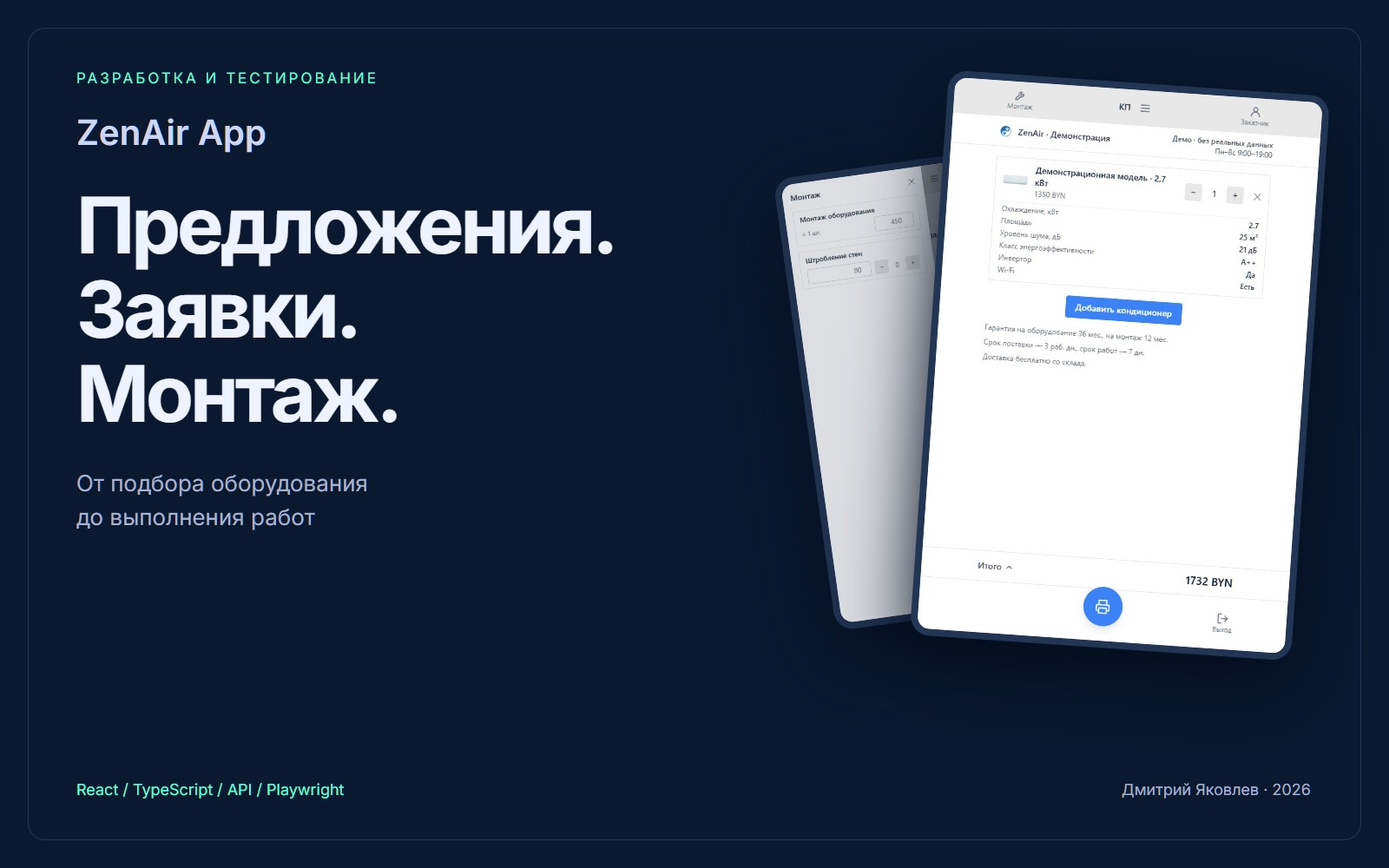
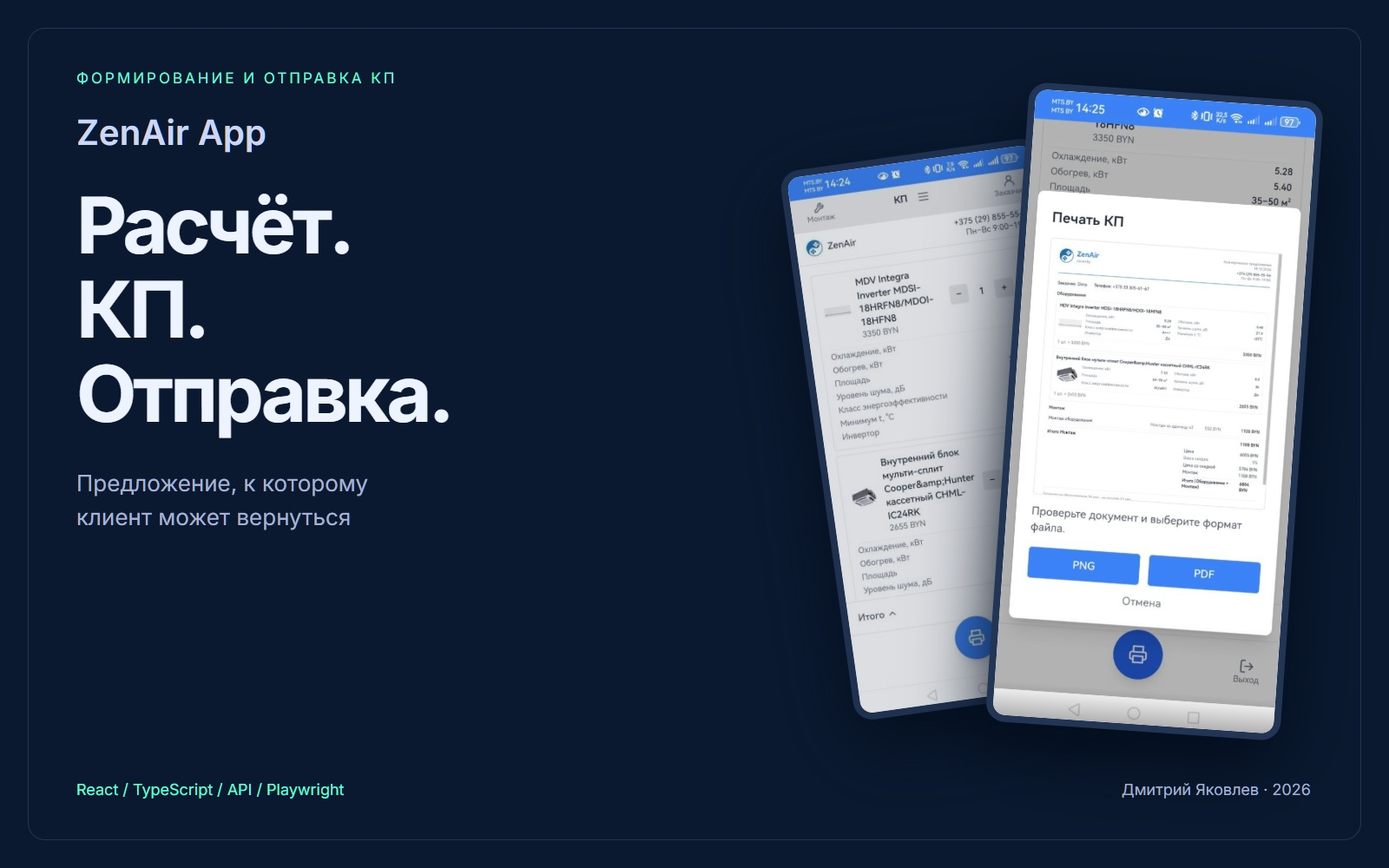
Focus ZenAir App case on quote calculation and sharing

diff --git a/projects/zenair-app.html b/projects/zenair-app.html
@@ -3,23 +3,23 @@
 <head>
 <meta charset="UTF-8">
 <meta name="viewport" content="width=device-width, initial-scale=1.0">
-<title>ZenAir App — разработка и тестирование приложения — Дмитрий Яковлев</title>
-<meta name="description" content="React и TypeScript: коммерческие предложения, монтажные заявки, ролевой доступ, API и автоматизированные проверки на Playwright.">
+<title>ZenAir App — расчёт и отправка коммерческого предложения — Дмитрий Яковлев</title>
+<meta name="description" content="Разработка приложения для расчёта оборудования и работ, формирования КП в PDF/PNG и отправки клиенту. React, TypeScript, API и Playwright.">
 <link rel="icon" href="/img/icons/favicon.ico">
 <link rel="canonical" href="https://dmitryyakovlev.by/projects/zenair-app.html">
 <meta property="og:type" content="article">
 <meta property="og:site_name" content="Дмитрий Яковлев">
 <meta property="og:locale" content="ru_RU">
-<meta property="og:title" content="ZenAir App — разработка и тестирование приложения — Дмитрий Яковлев">
-<meta property="og:description" content="React и TypeScript: коммерческие предложения, монтажные заявки, ролевой доступ, API и автоматизированные проверки на Playwright.">
+<meta property="og:title" content="ZenAir App — расчёт и отправка коммерческого предложения — Дмитрий Яковлев">
+<meta property="og:description" content="Разработка приложения для расчёта оборудования и работ, формирования КП в PDF/PNG и отправки клиенту. React, TypeScript, API и Playwright.">
 <meta property="og:url" content="https://dmitryyakovlev.by/projects/zenair-app.html">
 <meta property="og:image" content="https://dmitryyakovlev.by/img/projects/zenair-app-cover.jpg">
 <meta property="og:image:width" content="1600">
 <meta property="og:image:height" content="1000">
-<meta property="og:image:alt" content="ZenAir App — разработка и тестирование приложения">
+<meta property="og:image:alt" content="ZenAir App — расчёт и отправка коммерческого предложения">
 <meta name="twitter:card" content="summary_large_image">
-<meta name="twitter:title" content="ZenAir App — разработка и тестирование приложения — Дмитрий Яковлев">
-<meta name="twitter:description" content="React и TypeScript: коммерческие предложения, монтажные заявки, ролевой доступ, API и автоматизированные проверки на Playwright.">
+<meta name="twitter:title" content="ZenAir App — расчёт и отправка коммерческого предложения — Дмитрий Яковлев">
+<meta name="twitter:description" content="Разработка приложения для расчёта оборудования и работ, формирования КП в PDF/PNG и отправки клиенту. React, TypeScript, API и Playwright.">
 <meta name="twitter:image" content="https://dmitryyakovlev.by/img/projects/zenair-app-cover.jpg">
 <style>
 @font-face { font-family: 'Inter'; font-style: normal; font-weight: 300 700; font-display: swap; src: url('/fonts/inter-cyrillic.woff2') format('woff2'); unicode-range: U+0301, U+0400-045F, U+0490-0491, U+04B0-04B1, U+2116; }
@@ -64,124 +64,124 @@ a { color:inherit; }
 <body>
 <div class="spotlight" id="spotlight">
 </div>
-<main class="page"><a href="/" class="back"><svg viewBox="0 0 24 24" fill="none" stroke="currentColor" stroke-width="2" aria-hidden="true"><path d="M19 12H5m7-7-7 7 7 7"/></svg>Дмитрий Яковлев</a>
+<main class="page">
+<a href="/" class="back"><svg viewBox="0 0 24 24" fill="none" stroke="currentColor" stroke-width="2" aria-hidden="true"><path d="M19 12H5m7-7-7 7 7 7"/></svg>Дмитрий Яковлев</a>
 <p class="proj-year">2026 · Собственный проект · Разработка и тестирование</p>
 <h1 class="proj-title">ZenAir App</h1>
-<p class="proj-subtitle">Коммерческие предложения и управление монтажом</p>
-<p class="case-intro">Приложение, которое связывает подбор оборудования, предложение заказчику и монтажную заявку. Отдельные интерфейсы для менеджера, монтажника, диспетчера и администратора работают через общий API.</p>
-<div class="proj-links"><a class="btn" href="#testing">Как устроены проверки ↓</a><a class="btn" href="/projects/zenair.html">Кейс магазина →</a>
+<p class="proj-subtitle">Расчёт и отправка коммерческого предложения клиенту</p>
+<p class="case-intro">Клиент сравнивает предложения нескольких компаний. ZenAir App помогает отправить ему расчёт с оборудованием, стоимостью работ, скидкой и итоговой суммой — чтобы он мог вернуться к предложению, когда будет готов принять решение.</p>
+<div class="proj-links"><a class="btn" href="#scenario">Как формируется КП ↓</a><a class="btn" href="#testing">Тестирование ↓</a><a class="btn" href="/projects/zenair.html">Кейс магазина →</a>
 </div>
 <dl class="case-facts">
 <div>
 <dt>Моя роль</dt>
-<dd>Проектирование, разработка интерфейсов и API, интеграции, автотесты</dd>
+<dd>Проектирование, разработка интерфейса и API, интеграции, автотесты</dd>
 </div>
 <div>
-<dt>Стек</dt>
-<dd>React · TypeScript · Express · Prisma · MySQL</dd>
+<dt>Основной сценарий</dt>
+<dd>Рассчитать → сформировать КП → отправить → вернуться к предложению</dd>
 </div>
 <div>
-<dt>Проверки</dt>
-<dd>Vitest · Testing Library · Supertest · Playwright</dd>
+<dt>Технологии</dt>
+<dd>React · TypeScript · Express · Prisma · MySQL · Playwright</dd>
 </div>
 </dl>
-<nav class="case-toc" aria-label="Разделы кейса"><a href="#task">Задача</a><a href="#quote">Коммерческое предложение</a><a href="#jobs">Монтаж</a><a href="#architecture">Решения</a><a href="#testing">Тестирование</a>
+<nav class="case-toc" aria-label="Разделы кейса"><a href="#task">Задача</a><a href="#scenario">Формирование КП</a><a href="#return">Возврат к расчёту</a><a href="#solutions">Решения</a><a href="#testing">Проверки</a>
 </nav>
-<div class="case-screens">
-<figure class="case-figure"><a href="/img/projects/zenair-app-quote.jpg" target="_blank" rel="noopener" aria-label="Открыть скриншот: Интерфейс подготовки коммерческого предложения ZenAir App"><img src="/img/projects/zenair-app-quote.jpg" alt="Интерфейс подготовки коммерческого предложения ZenAir App" width="600" height="900" loading="lazy"></a>
-<figcaption>Оборудование и условия предложения. Локальная сборка, демонстрационные данные.</figcaption>
-</figure>
-<figure class="case-figure"><a href="/img/projects/zenair-app-works.jpg" target="_blank" rel="noopener" aria-label="Открыть скриншот настройки монтажных работ"><img src="/img/projects/zenair-app-works.jpg" alt="Стоимость и состав монтажных работ в ZenAir App" width="600" height="900" loading="lazy"></a>
-<figcaption>Базовый монтаж и дополнительные работы. Данные для демонстрации интерфейса.</figcaption>
-</figure>
-</div>
+
 <section id="task" class="proj-section">
 <p class="proj-section-title">01 / Задача</p>
-<h2 class="case-heading">Связать продажу оборудования и выполнение работ</h2>
-<p>После подбора техники нужно рассчитать монтаж, подготовить предложение заказчику и передать данные исполнителю. Я разработал приложение для этих связанных задач: от выбора оборудования до изменения статуса монтажной заявки.</p>
-<p>Проектировал структуру данных, разрабатывал пользовательские интерфейсы и API, синхронизацию каталога и автоматизированные проверки.</p>
+<h2 class="case-heading">Оставить клиенту понятное предложение после разговора</h2>
+<p>Покупатель может позвонить в несколько компаний, уточнить модели и цены, а решение принять позже. Озвученные по телефону суммы легко перепутать: где учтены работы, какая модель предложена и сколько всё будет стоить в итоге.</p>
+<p>Я разработал приложение для подготовки и отправки коммерческого предложения. В нём менеджер собирает оборудование и работы, задаёт условия сделки и получает документ, который клиент может сохранить и открыть повторно после сравнения вариантов.</p>
 <ol class="case-flow">
-<li>Оборудование и работы</li>
-<li>Предложение заказчику</li>
-<li>Назначение монтажника</li>
-<li>Выполнение заявки</li>
+<li>Выбрать оборудование</li>
+<li>Рассчитать предложение</li>
+<li>Отправить клиенту</li>
+<li>Вернуться к расчёту</li>
 </ol>
 </section>
-<section id="quote" class="proj-section">
-<p class="proj-section-title">02 / Работа менеджера</p>
-<h2 class="case-heading">Предложение с оборудованием, работами и условиями</h2>
-<p>Менеджер выбирает оборудование по бренду, серии и модели, добавляет монтажные работы, условия и данные заказчика. Предложение сохраняется в истории, доступно для экспорта в PDF/PNG и просмотра заказчиком по ссылке без регистрации.</p>
-<p>Заказчик может принять предложение по ссылке; менеджер видит его статус. Для выданного КП сохраняются состав оборудования, цены и условия, чтобы документ можно было повторно открыть после изменения текущего каталога.</p>
+
+<section id="scenario" class="proj-section">
+<p class="proj-section-title">02 / Основной сценарий</p>
+<h2 class="case-heading">От выбора моделей до отправки готового КП</h2>
+<p>На скриншотах — последовательность формирования предложения в мобильном приложении. Состав и стоимость работ входят в расчёт; главный результат сценария — готовый документ для клиента.</p>
 <div class="case-grid">
 <article class="case-card">
-<h3>Связь с WooCommerce</h3>
-<p>Каталог приложения синхронизируется с магазином. Оборудование используется в конструкторе коммерческих предложений.</p>
+<h3>1. Оборудование и расчёт</h3>
+<p>Менеджер добавляет модели и количество. В предложении видны характеристики техники, цены и итог. Стоимость необходимых работ учитывается в общей сумме.</p>
 </article>
 <article class="case-card">
-<h3>Сохранённое предложение</h3>
-<p>История использует данные выданного документа. Обновление каталога не должно менять его состав и цены.</p>
+<h3>2. Заказчик и условия</h3>
+<p>Заполняет данные клиента, скидку, предоплату и сроки. Внутренняя заметка сотрудника отделена от информации, которая попадёт в документ.</p>
 </article>
 </div>
-</section>
-<section id="jobs" class="proj-section">
-<p class="proj-section-title">03 / Выполнение работ</p>
-<h2 class="case-heading">Каждому сотруднику — свой интерфейс</h2>
-<p>Из сохранённого КП менеджер создаёт монтажную заявку и назначает исполнителя. Монтажник видит свои заявки и данные по работам, а диспетчер — общую доску. Изменения статусов проходят проверку на сервере.</p>
-<div class="case-table-wrap">
-<table class="case-table">
-<thead>
-<tr>
-<th scope="col">Интерфейс</th>
-<th scope="col">Задачи</th>
-</tr>
-</thead>
-<tbody>
-<tr>
-<th scope="row">Менеджер</th>
-<td>Подготовка КП, история, работа с заказчиками и назначение монтажника.</td>
-</tr>
-<tr>
-<th scope="row">Монтажник</th>
-<td>Назначенные заявки, адрес и детали работ, статусы выполнения и фото.</td>
-</tr>
-<tr>
-<th scope="row">Диспетчер</th>
-<td>Общая доска заявок и наблюдение за их состоянием.</td>
-</tr>
-<tr>
-<th scope="row">Администратор</th>
-<td>Организации, сотрудники, справочники, аналитика и журнал действий.</td>
-</tr>
-</tbody>
-</table>
+<div class="case-screens">
+<figure class="case-figure"><a href="/img/projects/zenair-app-equipment.jpg" target="_blank" rel="noopener" aria-label="Открыть скриншот: Выбранное оборудование и итоговая сумма в ZenAir App"><img src="/img/projects/zenair-app-equipment.jpg" alt="Выбранное оборудование и итоговая сумма в ZenAir App" width="287" height="630" loading="lazy"></a>
+<figcaption>1. Модели, характеристики, количество и текущий итог расчёта.</figcaption>
+</figure>
+<figure class="case-figure"><a href="/img/projects/zenair-app-customer.jpg" target="_blank" rel="noopener" aria-label="Открыть скриншот: Данные заказчика и условия предложения"><img src="/img/projects/zenair-app-customer.jpg" alt="Данные заказчика и условия предложения" width="285" height="636" loading="lazy"></a>
+<figcaption>2. Заказчик, скидка, предоплата и сроки. Внутренняя заметка не печатается в КП.</figcaption>
+</figure>
+</div>
+<div class="case-grid">
+<article class="case-card">
+<h3>3. Предпросмотр и формат</h3>
+<p>Перед отправкой менеджер видит документ: оборудование, работы, скидку и итоговую стоимость. Выбирает PDF или PNG.</p>
+</article>
+<article class="case-card">
+<h3>4. Отправка клиенту</h3>
+<p>После подготовки файла нажимает «Отправить». На поддерживаемом устройстве открывается системное меню: можно выбрать установленный мессенджер или почту.</p>
+</article>
+</div>
+<div class="case-screens case-screens-three">
+<figure class="case-figure"><a href="/img/projects/zenair-app-preview.jpg" target="_blank" rel="noopener" aria-label="Открыть скриншот: Предпросмотр КП и выбор формата PNG или PDF"><img src="/img/projects/zenair-app-preview.jpg" alt="Предпросмотр КП и выбор формата PNG или PDF" width="480" height="1069" loading="lazy"></a>
+<figcaption>3. Предпросмотр документа и выбор PDF или PNG.</figcaption>
+</figure>
+<figure class="case-figure"><a href="/img/projects/zenair-app-ready.jpg" target="_blank" rel="noopener" aria-label="Открыть скриншот: Подготовленный файл коммерческого предложения"><img src="/img/projects/zenair-app-ready.jpg" alt="Подготовленный файл коммерческого предложения" width="483" height="1075" loading="lazy"></a>
+<figcaption>4. Файл подготовлен. Отправка выполняется отдельным нажатием.</figcaption>
+</figure>
+<figure class="case-figure"><a href="/img/projects/zenair-app-share.jpg" target="_blank" rel="noopener" aria-label="Открыть скриншот: Системное меню отправки коммерческого предложения на Android"><img src="/img/projects/zenair-app-share.jpg" alt="Системное меню отправки коммерческого предложения на Android" width="486" height="1071" loading="lazy"></a>
+<figcaption>5. Выбор мессенджера или почты в системном меню Android.</figcaption>
+</figure>
 </div>
 </section>
-<section id="architecture" class="proj-section">
+
+<section id="return" class="proj-section">
+<p class="proj-section-title">03 / Ценность для клиента</p>
+<h2 class="case-heading">Расчёт, к которому можно вернуться</h2>
+<p>После разговора у клиента остаётся конкретное предложение: состав оборудования, характеристики, работы, условия и итоговая сумма. Он может снова открыть документ в переписке, обсудить его с близкими и сопоставить с предложениями других компаний.</p>
+<p>КП сохраняется в истории приложения. Помимо отправки файла предусмотрен просмотр по ссылке без регистрации: заказчик может открыть предложение и принять его, а менеджер — увидеть его статус.</p>
+<div class="case-note">В одном предложении остаются выбранные модели, стоимость оборудования и работ, скидка и условия. Клиент может сравнивать конкретный расчёт и вернуться к обсуждению с менеджером.</div>
+</section>
+
+<section id="solutions" class="proj-section">
 <p class="proj-section-title">04 / Технические решения</p>
-<h2 class="case-heading">Общий API и явные правила работы с данными</h2>
+<h2 class="case-heading">Каталог, расчёты и отправка документа</h2>
 <div class="case-grid">
 <article class="case-card">
-<h3>Общие контракты</h3>
-<p>Типы и схемы Zod вынесены в общий пакет. Интерфейсы и сервер используют согласованную структуру данных.</p>
+<h3>Каталог из WooCommerce</h3>
+<p>Приложение получает оборудование из магазина. Менеджер выбирает модель из каталога и добавляет её в предложение.</p>
 </article>
 <article class="case-card">
-<h3>Ролевой доступ</h3>
-<p>Проверки на сервере учитывают роль сотрудника и организацию. Доступ не ограничивается видимостью кнопок в интерфейсе.</p>
+<h3>Сохранение выданного КП</h3>
+<p>Состав, цены и условия сохраняются вместе с предложением. Изменение текущего каталога не должно менять ранее выданный расчёт.</p>
 </article>
 <article class="case-card">
-<h3>Переходы статусов</h3>
-<p>Для заявки заданы допустимые переходы: назначена → в пути → на месте → завершена. Предусмотрена отмена.</p>
+<h3>PDF и PNG</h3>
+<p>Предпросмотр позволяет проверить документ перед экспортом. Файл можно сохранить и передать клиенту привычным способом.</p>
 </article>
 <article class="case-card">
-<h3>Один сервер для интерфейсов</h3>
-<p>Несколько клиентских приложений работают через общий Express API и одну схему данных Prisma.</p>
+<h3>Системное меню отправки</h3>
+<p>Для поддерживаемых браузеров используется Web Share API. Если передача файлов недоступна, предусмотрено скачивание.</p>
 </article>
 </div>
 </section>
+
 <section id="testing" class="proj-section">
 <p class="proj-section-title">05 / Автоматизация тестирования</p>
-<h2 class="case-heading">Проверки API, компонентов и пользовательского пути</h2>
-<p>В проекте есть тесты серверных обработчиков, схем данных, компонентов и браузерных сценариев. Для разных уровней используются Vitest, Supertest, Testing Library и Playwright.</p>
+<h2 class="case-heading">Проверка пути от выбора модели до готового файла</h2>
+<p>В проекте используются Vitest, Supertest, Testing Library и Playwright: проверки API, компонентов и пользовательских сценариев.</p>
 <div class="case-table-wrap">
 <table class="case-table">
 <thead>
@@ -193,34 +193,36 @@ a { color:inherit; }
 <tbody>
 <tr>
 <th scope="row">API</th>
-<td>Авторизация, доступ к данным, создание КП и обработка монтажных заявок.</td>
+<td>Авторизация, доступ к данным, создание и чтение предложений.</td>
 </tr>
 <tr>
 <th scope="row">Компоненты</th>
-<td>Формы и состояния интерфейсов, взаимодействие с элементами управления.</td>
+<td>Формы и состояния интерфейса, работа с данными предложения.</td>
 </tr>
 <tr>
-<th scope="row">Браузер</th>
-<td>Вход → выбор модели → монтажные работы → данные заказчика → скачивание PNG.</td>
+<th scope="row">Playwright</th>
+<td>Вход → выбор модели → добавление работ → данные заказчика → скачивание PNG.</td>
 </tr>
 <tr>
 <th scope="row">Негативный сценарий</th>
-<td>Печать предложения блокируется, если не заполнены обязательные данные заказчика.</td>
+<td>Печать блокируется, если не заполнены обязательные данные заказчика.</td>
 </tr>
 </tbody>
 </table>
 </div>
-<p>В браузерном сценарии менеджера API подменяется тестовыми ответами: проверка проходит без создания реальных клиентских записей. В этом же сценарии проверяется отсутствие горизонтального переполнения на мобильном размере экрана.</p>
-<div class="case-note">Этот сценарий проверяет пользовательский поток с тестовыми ответами API. Для оценки взаимодействия с реальной базой нужны отдельные интеграционные проверки.</div>
+<p>В браузерном сценарии менеджера API подменяется тестовыми ответами: тест не создаёт реальные клиентские записи. Также проверяется отсутствие горизонтального переполнения на мобильном размере экрана.</p>
+<p>Системное меню отправки на скриншоте показывает работу функции на Android. Оно не входит в описанный Playwright-сценарий скачивания PNG.</p>
 </section>
-<section id="result" class="proj-section">
-<p class="proj-section-title">06 / Результат</p>
-<h2 class="case-heading">Связанные инструменты для продажи и монтажа</h2>
-<p>Реализованы конструктор предложений, история, интерфейс заказчика и работа с монтажными заявками. Проект показывает разработку бизнес-логики, нескольких интерфейсов и проверок на разных уровнях приложения.</p>
-<p><strong>Могу продемонстрировать приложение и автотесты, разобрать сценарии и технические решения на собеседовании.</strong>
+
+<section id="additional" class="proj-section">
+<p class="proj-section-title">06 / Дополнительные возможности</p>
+<h2 class="case-heading">Что ещё есть в приложении</h2>
+<p>Ролевой доступ, панель управления, монтажные заявки и интерфейсы сотрудников поддерживают дальнейшую работу с заказом. Основной сценарий этого кейса — подготовка понятного расчёта и отправка предложения клиенту.</p>
+<p><strong>Могу продемонстрировать формирование КП и автотесты, разобрать расчёты, экспорт и технические решения на собеседовании.</strong>
 </p>
-</section><a class="case-related" href="/projects/zenair.html"><span>СВЯЗАННЫЙ ПРОЕКТ →</span><strong>ZenAir — интернет-магазин</strong>
-<p>WordPress, WooCommerce и PHP. Каталог, подбор моделей и справочник функций, связанный с оборудованием.</p></a>
+</section>
+<a class="case-related" href="/projects/zenair.html"><span>СВЯЗАННЫЙ ПРОЕКТ →</span><strong>ZenAir — интернет-магазин</strong>
+<p>Каталог WordPress/WooCommerce, из которого оборудование поступает в конструктор коммерческого предложения.</p></a>
 <nav class="proj-nav" aria-label="Другие проекты"><a href="/projects/"><span class="proj-nav-label">← Архив</span><span class="proj-nav-title">Все проекты</span></a><a href="/#contacts"><span class="proj-nav-label">Связаться →</span><span class="proj-nav-title">Обсудить проект</span></a>
 </nav>
 </main></body></html>

diff --git a/index.html b/index.html
@@ -833,7 +833,7 @@ body {
     <section id="projects" class="section">
       <h3 class="section-title">Проекты</h3>
 
-      <div class="project-item"><a href="/projects/zenair-app.html" class="item-more">подробнее</a><div><a class="project-preview" href="/projects/zenair-app.html"><img src="/img/projects/zenair-app-cover.jpg" alt="ZenAir App — предложения и монтаж" width="1600" height="1000" loading="lazy"></a><a href="/projects/zenair-app.html" class="project-cta">Смотреть кейс <svg viewBox="0 0 24 24" fill="none" stroke="currentColor" stroke-width="2" aria-hidden="true"><path d="M7 17 17 7M7 7h10v10"/></svg></a></div><div><a href="/projects/zenair-app.html" class="item-title-link"><h4 class="item-title">ZenAir App — предложения и монтаж<svg viewBox="0 0 24 24" fill="none" stroke="currentColor" stroke-width="2" aria-hidden="true"><path d="M7 17 17 7M7 7h10v10"/></svg></h4></a><p class="item-description">Приложение на React и TypeScript: подготовка коммерческих предложений, синхронизация каталога WooCommerce, ролевой доступ и монтажные заявки. Разработал интерфейсы и API, добавил тесты компонентов, API и сценариев на Playwright.</p><div class="tags"><span class="tag">React</span><span class="tag">TypeScript</span><span class="tag">Node.js</span><span class="tag">Playwright</span></div></div></div>
+      <div class="project-item"><a href="/projects/zenair-app.html" class="item-more">подробнее</a><div><a class="project-preview" href="/projects/zenair-app.html"><img src="/img/projects/zenair-app-cover.jpg" alt="ZenAir App — расчёт и отправка КП" width="1600" height="1000" loading="lazy"></a><a href="/projects/zenair-app.html" class="project-cta">Смотреть кейс <svg viewBox="0 0 24 24" fill="none" stroke="currentColor" stroke-width="2" aria-hidden="true"><path d="M7 17 17 7M7 7h10v10"/></svg></a></div><div><a href="/projects/zenair-app.html" class="item-title-link"><h4 class="item-title">ZenAir App — расчёт и отправка КП<svg viewBox="0 0 24 24" fill="none" stroke="currentColor" stroke-width="2" aria-hidden="true"><path d="M7 17 17 7M7 7h10v10"/></svg></h4></a><p class="item-description">Приложение для расчёта оборудования и работ, формирования КП в PDF/PNG и отправки клиенту. Клиент сохраняет предложение и может вернуться к нему после сравнения цен в других компаниях. Разработал интерфейс и API, синхронизацию с WooCommerce и автотесты на Playwright.</p><div class="tags"><span class="tag">React</span><span class="tag">TypeScript</span><span class="tag">Node.js</span><span class="tag">Playwright</span></div></div></div>
 
       <div class="project-item"><a href="/projects/zenair.html" class="item-more">подробнее</a><div><a class="project-preview" href="/projects/zenair.html"><img src="/img/projects/zenair-cover.jpg" alt="ZenAir — магазин и подбор климатической техники" width="1600" height="1000" loading="lazy"></a><a href="https://zenair.by/" target="_blank" rel="noopener" class="project-cta">Открыть магазин <svg viewBox="0 0 24 24" fill="none" stroke="currentColor" stroke-width="2" aria-hidden="true"><path d="M7 17 17 7M7 7h10v10"/></svg></a></div><div><a href="/projects/zenair.html" class="item-title-link"><h4 class="item-title">ZenAir — магазин и подбор климатической техники<svg viewBox="0 0 24 24" fill="none" stroke="currentColor" stroke-width="2" aria-hidden="true"><path d="M7 17 17 7M7 7h10v10"/></svg></h4></a><p class="item-description">Собственная тема WordPress и каталог WooCommerce: бренды и серии, подбор, фильтры, сравнение и избранное. Связал товары со справочником функций, добавил интеграции и SEO-структуру.</p><div class="tags"><span class="tag">WordPress</span><span class="tag">WooCommerce</span><span class="tag">PHP</span><span class="tag">SEO</span></div></div></div>
 

diff --git a/projects/zenair.html b/projects/zenair.html
@@ -147,9 +147,9 @@ a { color:inherit; }
 <p class="proj-section-title">05 / Результат</p>
 <h2 class="case-heading">Каталог, подбор и справочные материалы в одном продукте</h2>
 <p>Реализован магазин с собственной темой и модулями для выбора климатической техники. Кейс показывает работу со структурой технического ассортимента, пользовательскими сценариями и интеграциями WordPress/WooCommerce.</p>
-<p>Следующий этап работы с выбранным оборудованием представлен в отдельном приложении: подготовка предложения заказчику и управление монтажными заявками.</p>
-</section><a class="case-related" href="/projects/zenair-app.html"><span>СВЯЗАННЫЙ ПРОЕКТ →</span><strong>ZenAir App — предложения и монтаж</strong>
-<p>React, TypeScript, API и автоматизированные проверки. Как каталог используется в работе менеджера и монтажника.</p></a>
+<p>В отдельном приложении менеджер использует оборудование из каталога для расчёта и отправки коммерческого предложения. Клиент получает документ, к которому может вернуться после сравнения вариантов.</p>
+</section><a class="case-related" href="/projects/zenair-app.html"><span>СВЯЗАННЫЙ ПРОЕКТ →</span><strong>ZenAir App — расчёт и отправка КП</strong>
+<p>React, TypeScript и автоматизированные проверки. Как из выбранного оборудования получается предложение для клиента.</p></a>
 <nav class="proj-nav" aria-label="Другие проекты"><a href="/projects/"><span class="proj-nav-label">← Архив</span><span class="proj-nav-title">Все проекты</span></a><a href="/#contacts"><span class="proj-nav-label">Связаться →</span><span class="proj-nav-title">Обсудить проект</span></a>
 </nav>
 </main></body></html>

diff --git a/projects/index.html b/projects/index.html
@@ -301,7 +301,7 @@ body {
       </tr>
     </thead>
     <tbody>
-<tr><td class="td-year">2026</td><td class="td-name"><a href="/projects/zenair-app.html" class="project-name">ZenAir App <svg viewBox="0 0 24 24" fill="none" stroke="currentColor" stroke-width="2" aria-hidden="true"><path d="M7 17 17 7M7 7h10v10"/></svg></a><p class="project-desc">Коммерческие предложения и монтажные заявки. Разработка интерфейсов и API, интеграция WooCommerce, тесты API, компонентов и Playwright-сценарии.</p><a href="/projects/zenair-app.html" class="dzen-link">Подробнее о проекте →</a></td><td class="td-tags"><div class="tags"><span class="tag">React</span><span class="tag">TypeScript</span><span class="tag">Node.js</span><span class="tag">Playwright</span></div></td></tr>
+<tr><td class="td-year">2026</td><td class="td-name"><a href="/projects/zenair-app.html" class="project-name">ZenAir App <svg viewBox="0 0 24 24" fill="none" stroke="currentColor" stroke-width="2" aria-hidden="true"><path d="M7 17 17 7M7 7h10v10"/></svg></a><p class="project-desc">Расчёт оборудования и работ, формирование КП в PDF/PNG и отправка клиенту. Сохранённое предложение помогает вернуться к расчёту после сравнения вариантов. React, TypeScript, API и Playwright.</p><a href="/projects/zenair-app.html" class="dzen-link">Подробнее о проекте →</a></td><td class="td-tags"><div class="tags"><span class="tag">React</span><span class="tag">TypeScript</span><span class="tag">Node.js</span><span class="tag">Playwright</span></div></td></tr>
 
       <tr>
         <td class="td-year">2026</td>

diff --git a/projects/case-study.css b/projects/case-study.css
@@ -19,6 +19,7 @@
 .case-figure img { display: block; width: 100%; height: auto; max-height: 650px; object-fit: contain; }
 .case-screens { display: grid; grid-template-columns: 1fr 1fr; gap: 20px; }
 .case-screens .case-figure { margin-top: 0; }
+.case-screens-three { grid-template-columns: repeat(3, minmax(0, 1fr)); }
 .case-figure figcaption { margin-top: 12px; font-size: 12px; color: var(--light); }
 .case-flow { display: grid; grid-template-columns: repeat(4, 1fr); padding: 0; list-style: none; gap: 12px; margin: 28px 0; counter-reset: stage; }
 .case-flow li { counter-increment: stage; border-top: 2px solid var(--border); padding: 16px 8px 0 0; font-size: 14px; color: var(--heading); }
